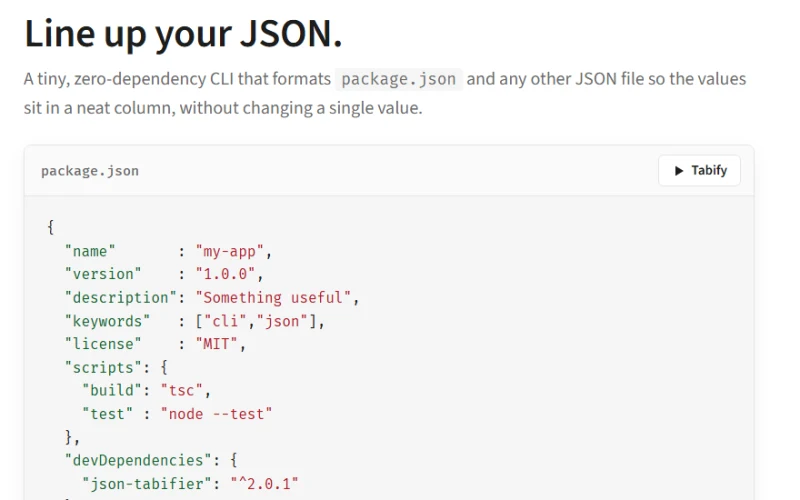
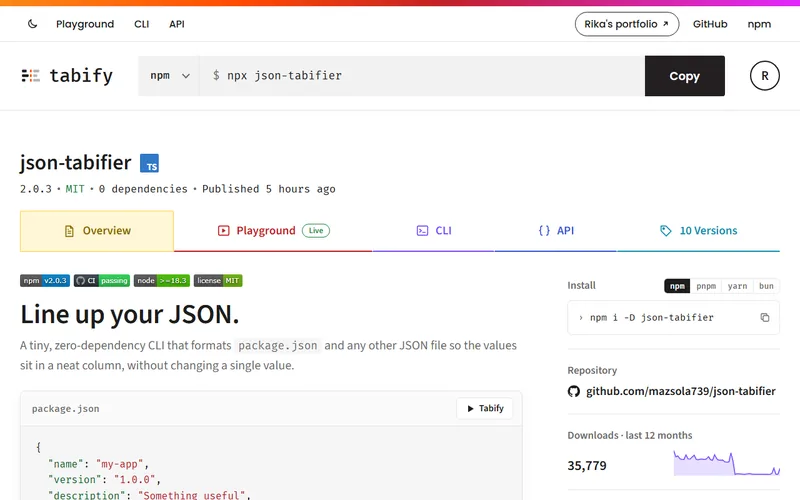
New CoderGames and json-tabifier thumbnails, CoderGames playground on the card
Both project pages were redesigned today: CoderGames has code-rain banners
and a new menu, json-tabifier looks like an npm package page. Both
thumbnails are light, as the pages open. The CoderGames card now mentions
the playground (solve a task yourself on the real input, in the browser)
and the Hungarian page, with a Web Workers tag.

diff --git a/src/data/projects.ts b/src/data/projects.ts
@@ -258,8 +258,16 @@ export const projects: Project[] = [
     level: 3,
     year: '2026',
     description:
-      'Every published task of CoderGames, the week-long coding competition of Deutsche Telekom IT Solutions, from 2020 to 2026: 37 tasks in 8 editions, from ciphers and graphs to dynamic programming. Each has a write-up in my own words, a standalone solution, an automatic check against the official answer and an interactive visualisation. Along the way I found five mistakes in the official material, such as wrong official answers for 93 of 103 maps in 2022.',
-    tags: ['TypeScript', 'Node.js', 'Algorithms', 'JavaScript', 'SVG', 'Data visualisation'],
+      'Every published task of CoderGames, the week-long coding competition of Deutsche Telekom IT Solutions, from 2020 to 2026: 37 tasks in 8 editions, from ciphers and graphs to dynamic programming. Each has a write-up in my own words, a standalone solution, an automatic check against the official answer and an interactive visualisation, and a playground lets you solve it yourself on the real input, right in the browser. Along the way I found five mistakes in the official material, such as wrong official answers for 93 of 103 maps in 2022. The site is in English and Hungarian.',
+    tags: [
+      'TypeScript',
+      'Node.js',
+      'Algorithms',
+      'JavaScript',
+      'SVG',
+      'Web Workers',
+      'Data visualisation',
+    ],
     live: 'https://mazsola739.github.io/rika-codergames/',
     repo: 'https://github.com/mazsola739/rika-codergames',
     image: codergames,
